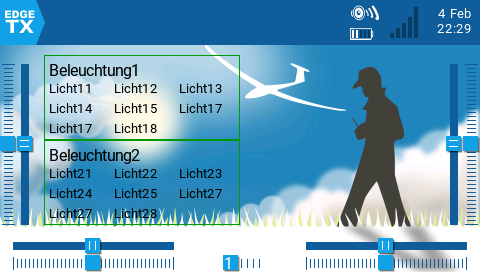
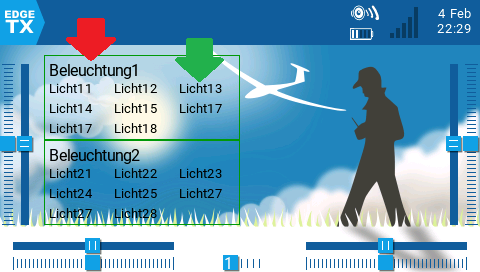
docs update

Changed region(s): [[0.3438, 0.1176, 0.4688, 0.2941], [0.125, 0.0588, 0.25, 0.2353]]

diff --git a/README.md b/README.md
@@ -14,9 +14,13 @@ fullscreen 2 Buttons are switched
 
 ![](https://github.com/Ziege-One/TSwitch/blob/main/docs/fullscreen.png?raw=true)
 
-setting start logical switche and config description
+setting start logical switch and config description 1-10
 
 ![](https://github.com/Ziege-One/TSwitch/blob/main/docs/widget_settings.png?raw=true)
+
+config description 1-10 in loadable.lua (red title and green button description) 
+
+![](https://github.com/Ziege-One/TSwitch/blob/main/docs/config.png?raw=true)
 
 widget
 
